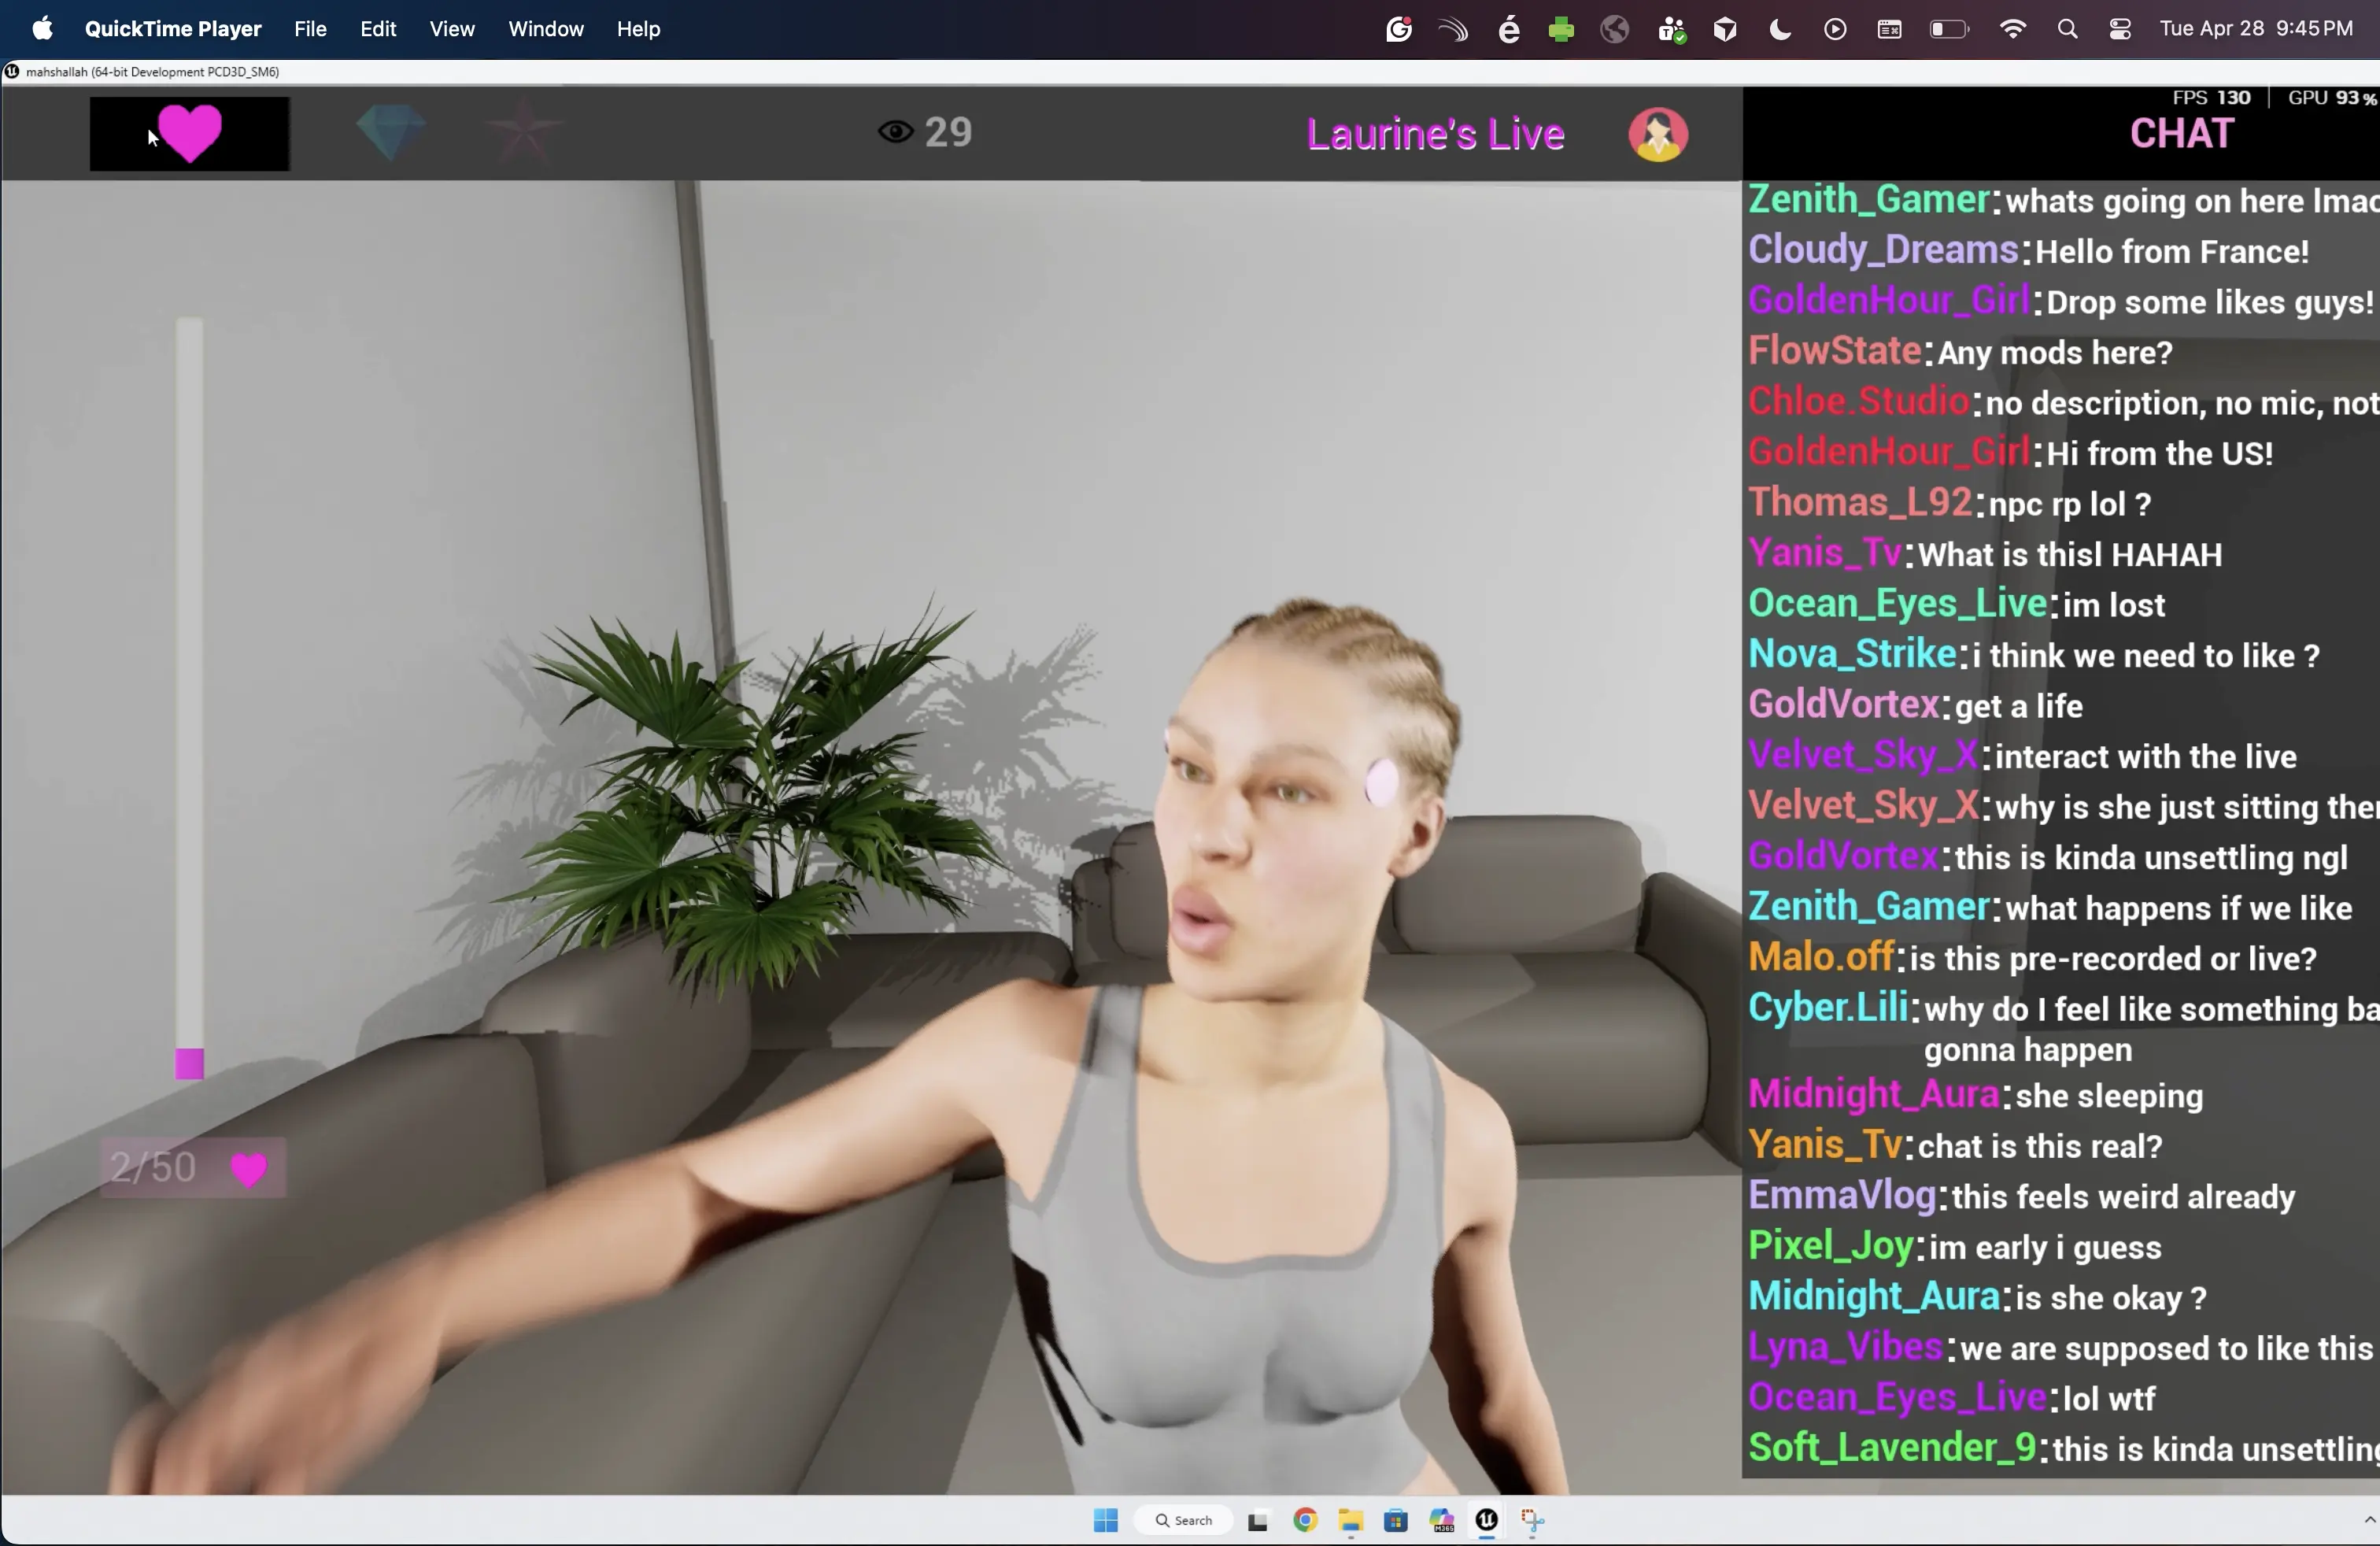
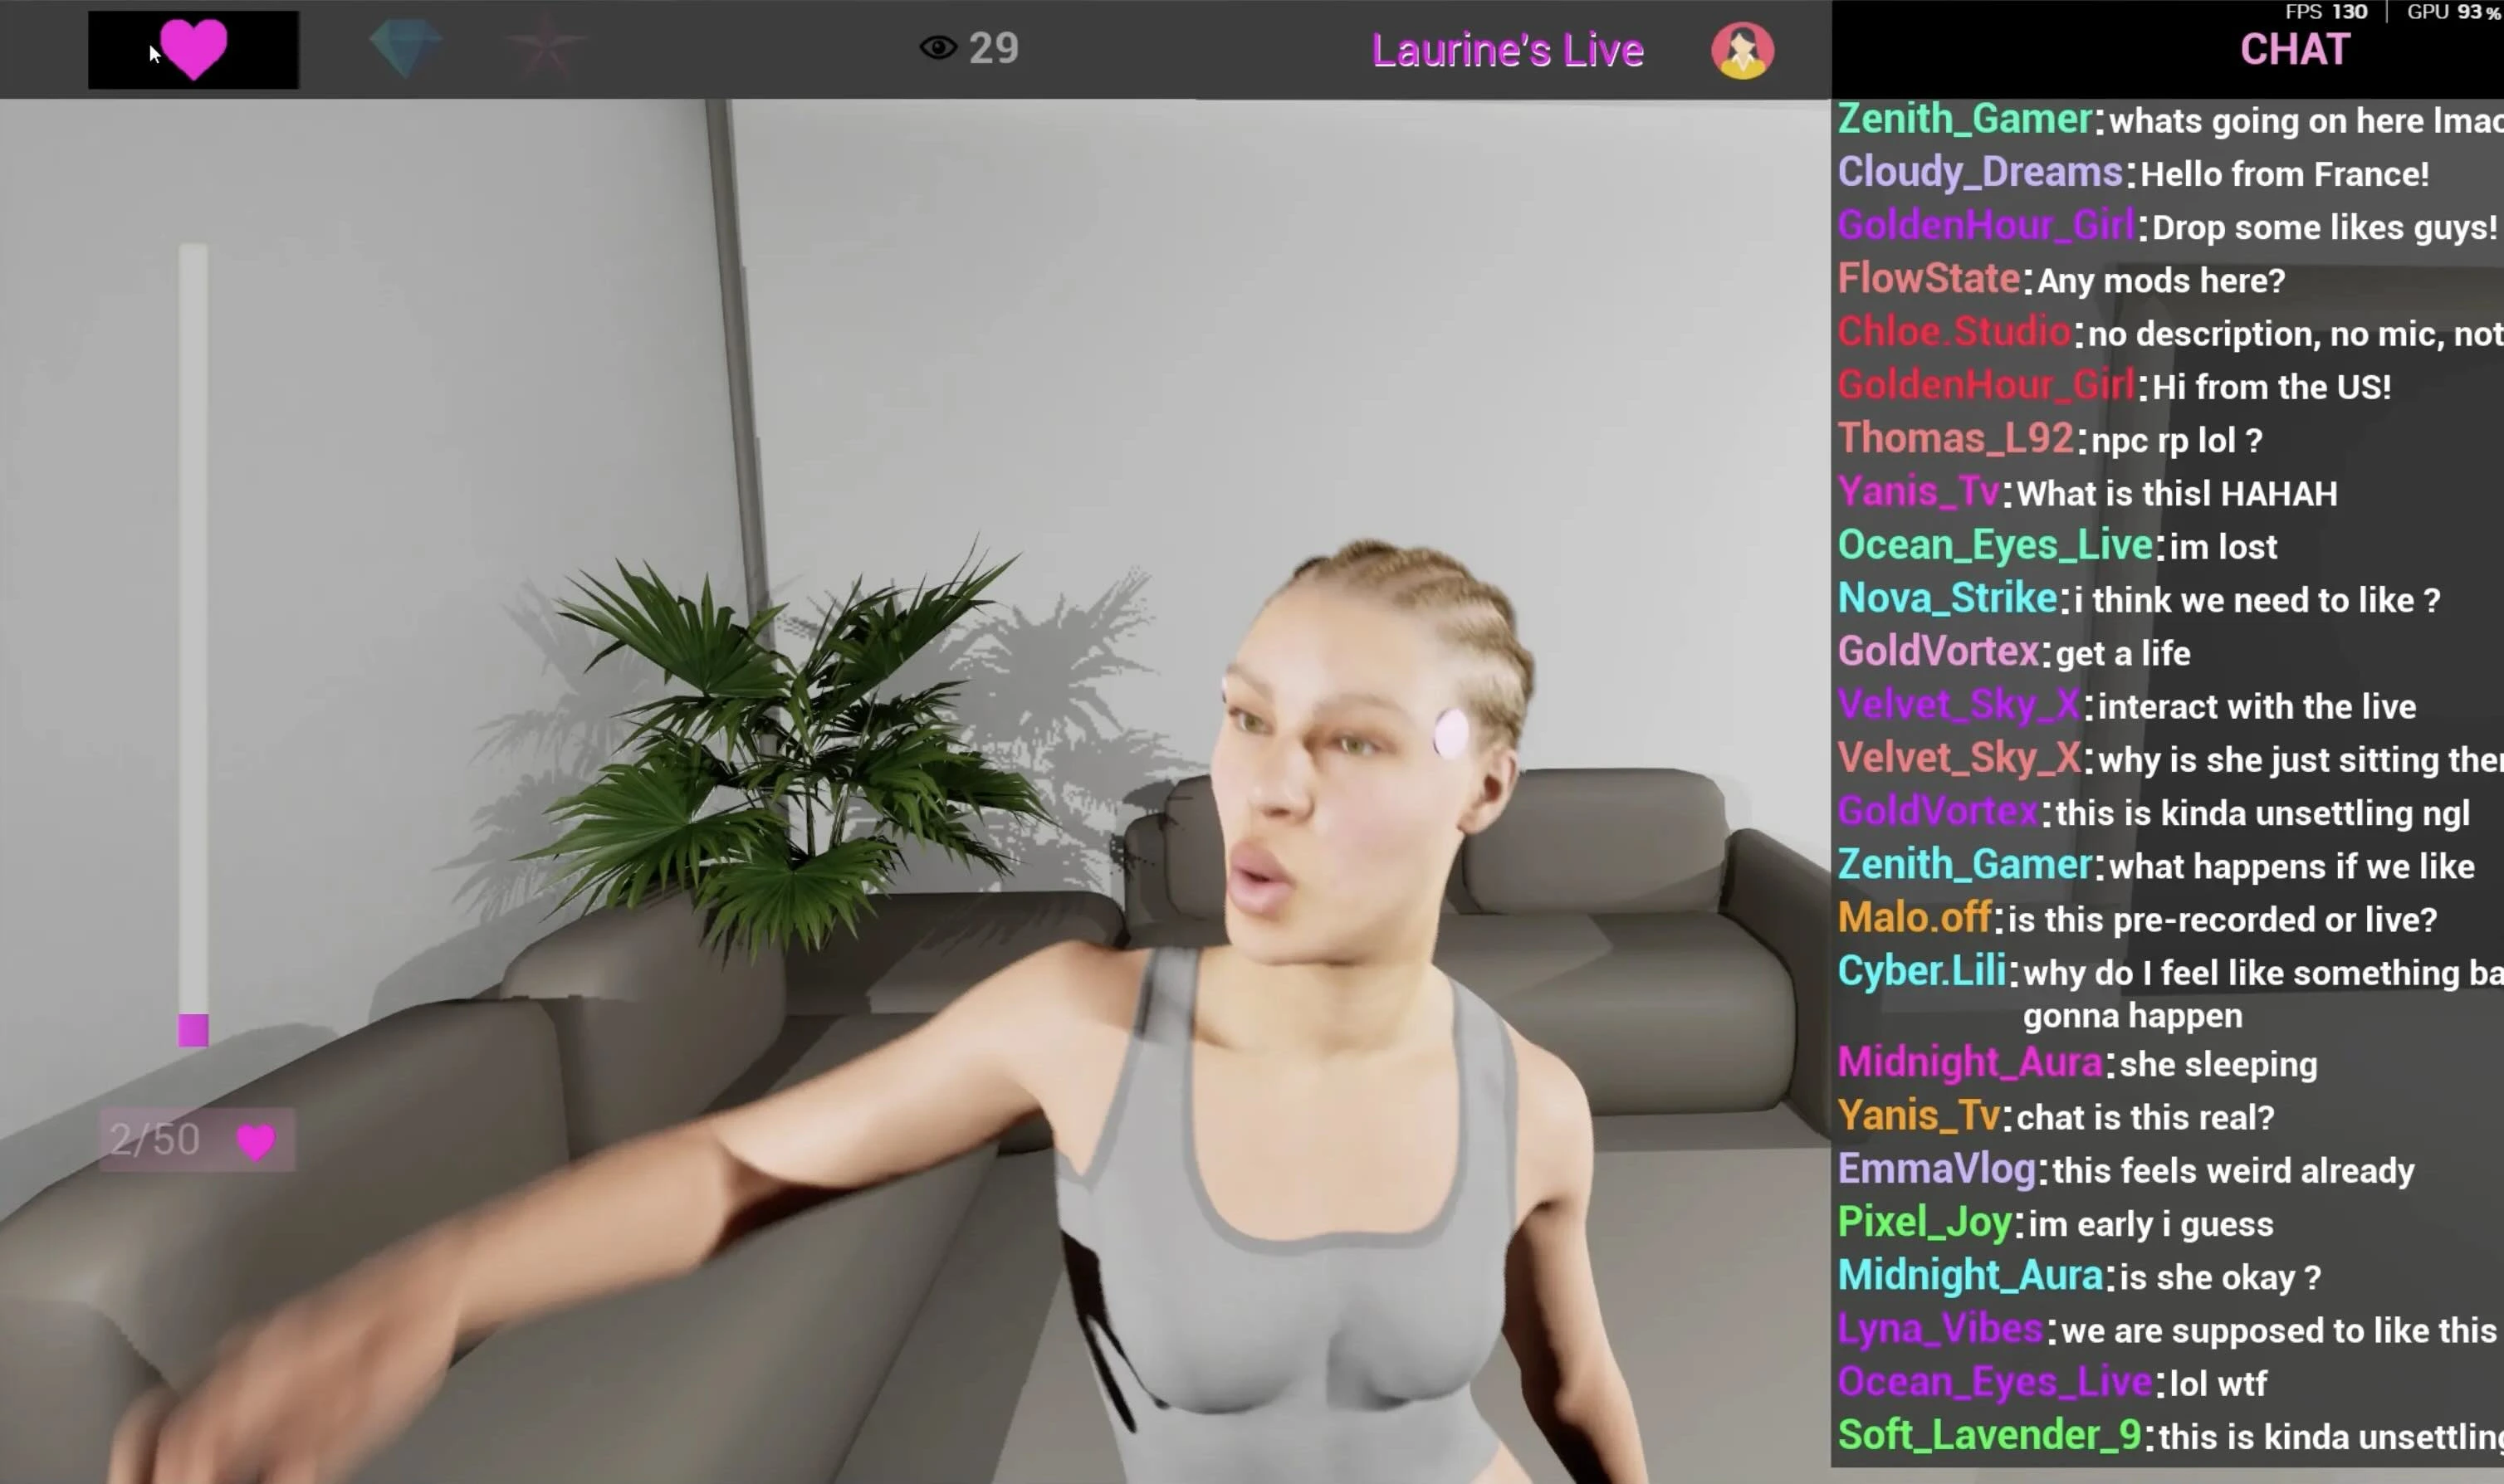
modif big

diff --git a/index.html b/index.html
@@ -19,12 +19,12 @@
     <section id="hero">
         <div class="slides">
             <!-- Replace src with your own project images -->
-            <div class="slide" style="background-image: url('IMAGES/MC_WORKSHOP.png');"></div>
+            <div class="slide" style="background-image: url('IMAGES/MC_WORKSHOP.webp');"></div>
             <div class="slide active" style="background-image: url('MEDIAS_PROJETS/TALKTOME/2.jpg');"></div>
             <div class="slide" style="background-image: url('MEDIAS_PROJETS/GARDEN/1.png');"></div>
             <div class="slide" style="background-image: url('IMAGES/DESIGNFRICTION.jpeg');"></div>
             <div class="slide" style="background-image: url('MEDIAS_PROJETS/MIRORMIROR/IMG_2021.png');"></div>
-            <div class="slide" style="background-image: url('IMAGES/ATELIER.png');"></div>
+            <div class="slide" style="background-image: url('IMAGES/ATELIER.webp');"></div>
         </div>
 
         <div class="hero-overlay">
@@ -152,10 +152,8 @@
 
                         <div class="project-thumbs">
                             <img src="MEDIAS_PROJETS/SHOCKVALUE/Screenshot1PM.webp" alt="Project 2 thumb 1">
-                            <img src="MEDIAS_PROJETS/SHOCKVALUE/Screenshot2026-04-28 at 9.47.14PM.webp"
-                                alt="Project 2 thumb 2">
-                            <img src="MEDIAS_PROJETS/SHOCKVALUE/Screenshot2026-04-28 at 9.46.06PM.webp"
-                                alt="Project 2 thumb 1">
+                            <img src="MEDIAS_PROJETS/SHOCKVALUE/Screenshot3PM.webp" alt="Project 2 thumb 2">
+                            <img src="MEDIAS_PROJETS/SHOCKVALUE/Screenshot4PM.webp" alt="Project 2 thumb 1">
 
                         </div>
                     </div>
@@ -202,7 +200,12 @@
                     <div class="project-main">
                         <img src="MEDIAS_PROJETS/MIRORMIROR/IMG_2021.png" alt="Project 3">
                         <div class="project-thumbs">
-                            <img src="MEDIAS_PROJETS/DESIGNFRICTION/4.webp" alt="Project 3 thumb 1">
+                            <img src="MEDIAS_PROJETS/MIRORMIROR/WhatsApp Image 2026-04-29 at 12.14.29 (1).webp"
+                                alt="MM3">
+
+                            <img src="MEDIAS_PROJETS/MIRORMIROR/thumb1_df.png" alt="MM1">
+                            <img src="MEDIAS_PROJETS/MIRORMIROR/WhatsApp Image 2026-04-29 at 12.14.29.webp" alt="MM2">
+
                         </div>
                     </div>
                 </a>

diff --git a/HTML_PROJETS/TALKTOME.html b/HTML_PROJETS/TALKTOME.html
@@ -21,8 +21,9 @@
     <section class="project-hero" aria-label="Altered Ego header image">
         <h1 class="project-hero-title">TALKTOME</h1>
         <div class="project-hero-meta">
-            <p><span class="meta-label">skills :</span> interaction system development, electronic, 3D, coding </p>
-            <p><span class="meta-label">tools :</span></p>
+            <p><span class="meta-label">skills :</span> physical computing, 3D, coding, crafting
+            </p>
+            <p><span class="meta-label">tools :</span> IdeaMaker, VScode </p>
         </div>
         <img class="project-hero-image" src="../MEDIAS_PROJETS/TALKTOME/2.jpg" alt="Shock Value header image">
     </section>

diff --git a/style.css b/style.css
@@ -485,14 +485,14 @@ main {
 .project-page main p {
     max-width: 1120px;
     margin: 0 auto 48px;
-    font-size: clamp(18px, 2.2vw, 25px);
+    font-size: clamp(18px, 2.2vw, 26px);
     line-height: 1.55;
 }
 
 .project-page main p.project-note {
     max-width: 1120px;
     text-align: left;
-    font-size: 20px;
+    font-size: 18px;
     font-weight: 400;
     margin: 0 auto 48px;
 }

diff --git a/aboutMe.html b/aboutMe.html
@@ -30,8 +30,7 @@
             I’m open-minded, passionate about discovering new things, and always eager to learn.
 
             Alongside my design practice, I also develop a personal artistic practice through nail art, where I
-            explore color, texture, and form on a different scale.
-            .</p>
+            explore color, texture, and form on a different scale.</p>
     </section>
 </main>
 </body>

diff --git a/HTML_PROJETS/DESIGNFRICTION.html b/HTML_PROJETS/DESIGNFRICTION.html
@@ -73,7 +73,7 @@
             <img src="../MEDIAS_PROJETS/DESIGNFRICTION/BD8CA6A3-9E20-48A3-98D8-303617A220D3.webp"
                 alt="Design Friction image 7">
             <video class="project-video" autoplay muted loop playsinline oncontextmenu="return false;">
-                <source src="../MEDIAS_PROJETS/DESIGNFRICTION/IMG_5833.mov" type="video/mov">
+                <source src="../MEDIAS_PROJETS/DESIGNFRICTION/servo.mp4" type="video/mp4">
                 Your browser does not support the video tag.
             </video>
 

diff --git a/HTML_PROJETS/MIRORMIROR.html b/HTML_PROJETS/MIRORMIROR.html
@@ -22,7 +22,7 @@
             <p><span class="meta-label">skills :</span> interaction system development, electronic, 3D, coding</p>
             <p><span class="meta-label">tools :</span> Arduino, VScode, blender</p>
         </div>
-        <img class="project-hero-image" src="../MEDIAS_PROJETS/MIRORMIROR/5e3d4576-24f3-4acc-bf23-0ffb31a2e3b5.png"
+        <img class="project-hero-image" src="../MEDIAS_PROJETS/MIRORMIROR/thumb1_df.png"
             alt="Mirror Mirror header image">
     </section>
 